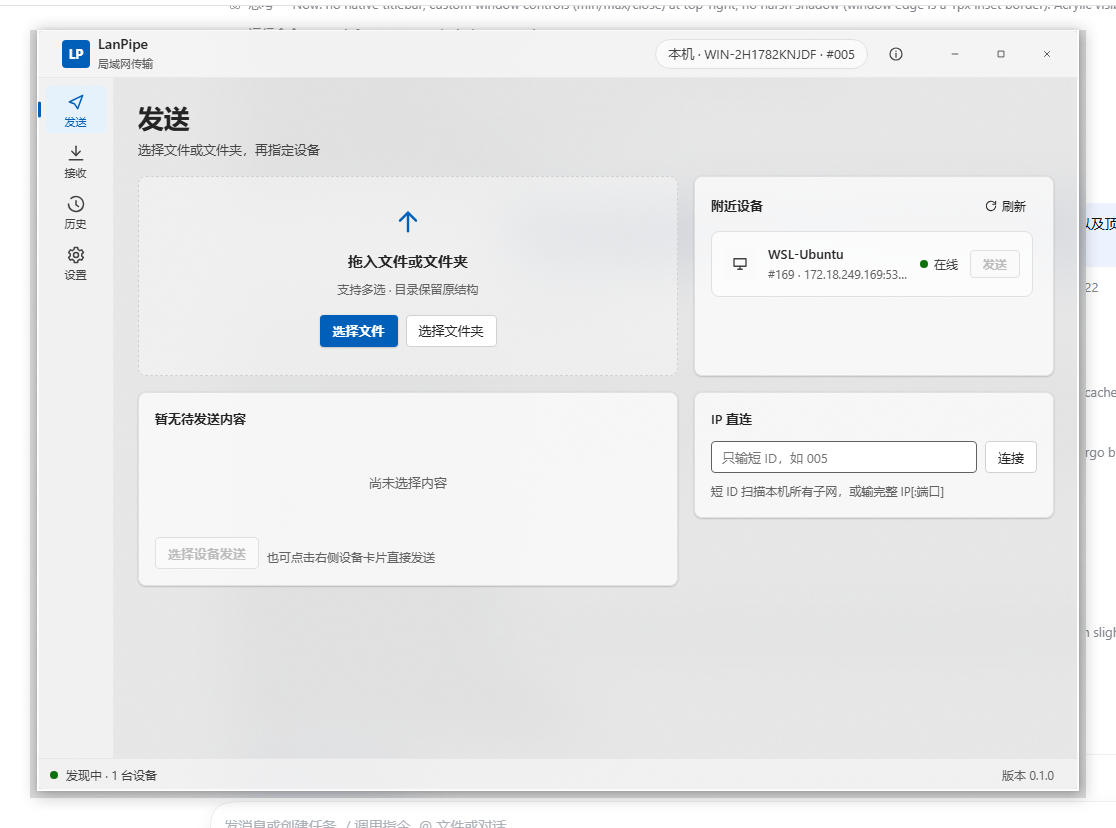
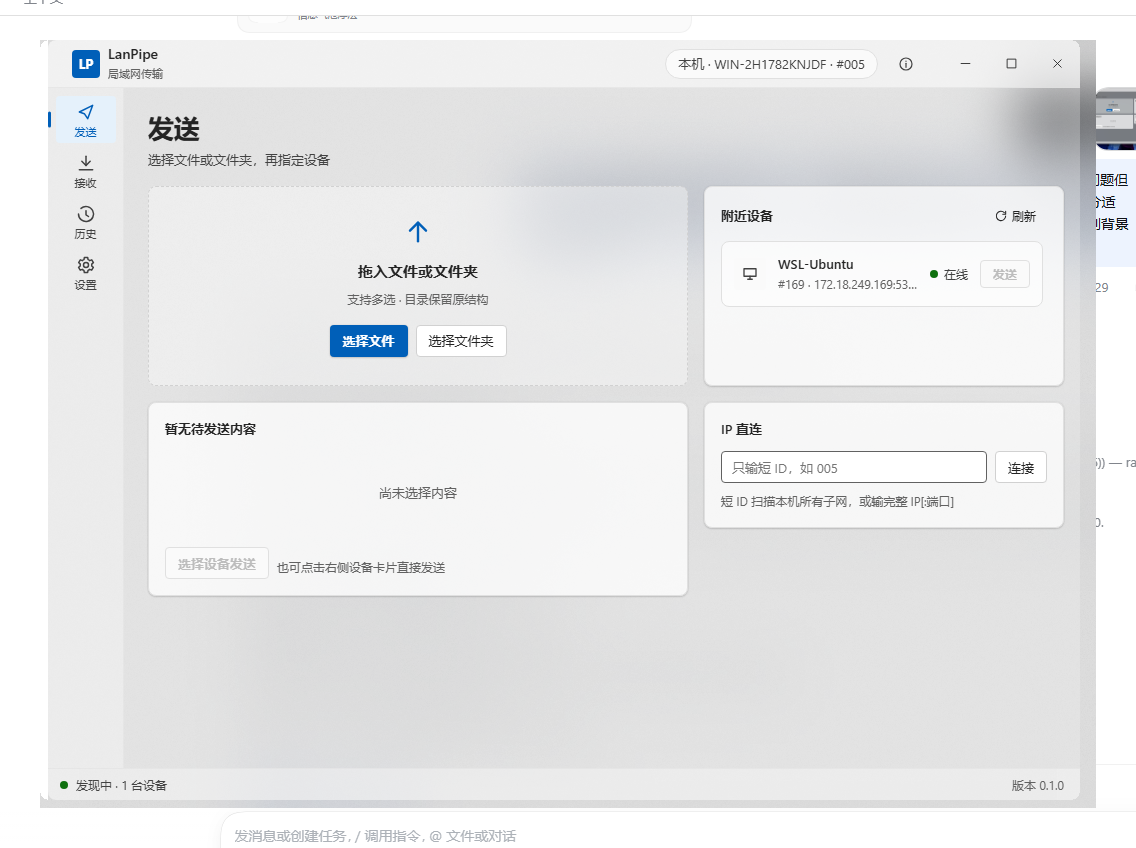
fix(win): 老系统窗口圆角兜底（SetWindowRgn）、Win11 风格标题栏按钮悬停、图标尺寸与层级修正、内容层降至 28%

diff --git a/src/styles/base.css b/src/styles/base.css
@@ -13,7 +13,7 @@ body {
   font-size: 13px;
   line-height: 20px;
   color: var(--text);
-  background: var(--bg);
+  background: transparent;
   -webkit-font-smoothing: antialiased;
   user-select: none;
 }
@@ -58,6 +58,7 @@ textarea {
 /* 应用骨架 -------------------------------------------------------------- */
 
 .app-root {
+  background: var(--bg);
   display: grid;
   grid-template-rows: 48px 1fr 32px;
   grid-template-columns: 76px 1fr;
@@ -363,6 +364,7 @@ textarea {
 }
 
 .win-btn {
+  position: relative;
   width: 46px;
   height: 100%;
   display: inline-flex;
@@ -376,12 +378,34 @@ textarea {
     color var(--dur-fast) var(--ease-standard);
 }
 
-.win-btn:hover {
-  background: color-mix(in srgb, var(--text) 6%, transparent);
+.win-btn::before {
+  content: "";
+  position: absolute;
+  inset: 6px 5px;
+  border-radius: 4px;
+  background: transparent;
+  transition: background var(--dur-fast) var(--ease-standard);
 }
 
-.win-btn:active {
-  background: color-mix(in srgb, var(--text) 10%, transparent);
+.win-btn:hover::before {
+  background: color-mix(in srgb, var(--text) 7%, transparent);
+}
+
+.win-btn:active::before {
+  background: color-mix(in srgb, var(--text) 13%, transparent);
+}
+
+.win-btn svg {
+  position: relative;
+  z-index: 1;
+  width: 15px;
+  height: 15px;
+  stroke-width: 1.4;
+}
+
+.win-btn.close:hover,
+.win-btn.close:active {
+  color: #ffffff;
 }
 
 .win-btn:focus-visible {
@@ -389,14 +413,12 @@ textarea {
   outline-offset: -2px;
 }
 
-.win-btn.close:hover {
+.win-btn.close:hover::before {
   background: #c42b1c;
-  color: #ffffff;
 }
 
-.win-btn.close:active {
+.win-btn.close:active::before {
   background: #b02a1e;
-  color: #ffffff;
 }
 
 @media (max-width: 640px) {

diff --git a/src/layout/shell.ts b/src/layout/shell.ts
@@ -88,7 +88,7 @@ export function buildShell(root: HTMLElement, onNavigate: (route: Route) => void
       "aria-label": t("window.maximize"),
       onclick: () => void win.toggleMaximize(),
     },
-    svgIcon(maxIcon(), 10),
+    svgIcon(maxIcon(), 12),
   );
   const winControls = el(
     "div",
@@ -102,7 +102,7 @@ export function buildShell(root: HTMLElement, onNavigate: (route: Route) => void
         "aria-label": t("window.minimize"),
         onclick: () => void win.minimize(),
       },
-      svgIcon(icons.minimize, 10),
+      svgIcon(icons.minimize, 12),
     ),
     maxBtn,
     el(
@@ -114,14 +114,14 @@ export function buildShell(root: HTMLElement, onNavigate: (route: Route) => void
         "aria-label": t("window.close"),
         onclick: () => void win.close(),
       },
-      svgIcon(icons.close, 10),
+      svgIcon(icons.close, 12),
     ),
   );
   const syncMaximized = async () => {
     try {
       const maximized = await win.isMaximized();
       document.documentElement.dataset.maximized = maximized ? "1" : "0";
-      maxBtn.replaceChildren(svgIcon(maxIcon(), 10));
+      maxBtn.replaceChildren(svgIcon(maxIcon(), 12));
       maxBtn.title = maximized ? t("window.restore") : t("window.maximize");
       maxBtn.setAttribute("aria-label", maxBtn.title);
     } catch {

diff --git a/src/styles/materials.css b/src/styles/materials.css
@@ -13,13 +13,14 @@
 
 :root[data-backdrop="mica"] body,
 :root[data-backdrop="acrylic"] body {
-  /* 内容层（WinUI LayerFillColorDefaultBrush 语义）：约 58% 透出材质 */
-  background: color-mix(in srgb, var(--bg) 42%, transparent);
+  background: transparent;
 }
 
 :root[data-backdrop="mica"] .app-root,
 :root[data-backdrop="acrylic"] .app-root {
-  background: transparent;
+  /* 内容层（WinUI LayerFillColorDefaultBrush 语义）：保留少量底色保证可读，
+     其余透出窗口材质；正文/标题在 28% 覆层上对比度足够（浅色主题） */
+  background: color-mix(in srgb, var(--bg) 28%, transparent);
 }
 
 :root[data-backdrop="mica"] .titlebar,

diff --git a/apps/desktop/src-tauri/src/main.rs b/apps/desktop/src-tauri/src/main.rs
@@ -283,6 +283,16 @@ fn main() {
             match window {
                 Ok(window) => {
                     tune_window_frame(&window);
+                    // 老系统（无 DWM 圆角）在尺寸变化后重算窗口圆角区域
+                    let region_window = window.clone();
+                    window.on_window_event(move |event| {
+                        if matches!(
+                            event,
+                            tauri::WindowEvent::Resized(_) | tauri::WindowEvent::ScaleFactorChanged { .. }
+                        ) {
+                            apply_round_region(&region_window);
+                        }
+                    });
                     let backdrop = apply_backdrop(&window);
                     log(&format!(
                         "setup: window built, url={:?}, visible={:?}, backdrop={backdrop}",
@@ -412,6 +422,30 @@ struct DwmMargins {
 extern "system" {
     fn DwmExtendFrameIntoClientArea(hwnd: isize, margins: *const DwmMargins) -> i32;
 
+    fn DwmGetWindowAttribute(
+        hwnd: isize,
+        attr: u32,
+        value: *mut core::ffi::c_void,
+        size: u32,
+    ) -> i32;
+}
+
+#[link(name = "gdi32")]
+extern "system" {
+    fn CreateRoundRectRgn(
+        left: i32,
+        top: i32,
+        right: i32,
+        bottom: i32,
+        width_ellipse: i32,
+        height_ellipse: i32,
+    ) -> isize;
+}
+
+#[link(name = "user32")]
+extern "system" {
+    fn SetWindowRgn(hwnd: isize, rgn: isize, redraw: i32) -> i32;
+
     fn DwmSetWindowAttribute(
         hwnd: isize,
         attr: u32,
@@ -453,6 +487,33 @@ fn tune_window_frame(window: &tauri::WebviewWindow) {
             &round as *const u32 as *const core::ffi::c_void,
             std::mem::size_of::<u32>() as u32,
         );
+    }
+    apply_round_region(window);
+}
+
+/// Win10/Server（<22000）没有 DWM 圆角，用窗口区域自己裁圆角，保证三端视觉一致。
+fn apply_round_region(window: &tauri::WebviewWindow) {
+    if windows_version::OsVersion::current().build >= 22000 {
+        return;
+    }
+    let Ok(hwnd) = window.hwnd() else { return };
+    let hwnd = hwnd.0 as isize;
+    let maximized = window.is_maximized().unwrap_or(false);
+    if maximized {
+        // 最大化时去掉区域，避免边缘漏出
+        unsafe {
+            let _ = SetWindowRgn(hwnd, 0, 1);
+        }
+        return;
+    }
+    let Ok(size) = window.inner_size() else { return };
+    let (w, h) = (size.width as i32, size.height as i32);
+    if w <= 0 || h <= 0 {
+        return;
+    }
+    unsafe {
+        let rgn = CreateRoundRectRgn(0, 0, w + 1, h + 1, 16, 16);
+        let _ = SetWindowRgn(hwnd, rgn, 1);
     }
 }
 

diff --git a/AGENT.md b/AGENT.md
@@ -536,3 +536,14 @@ node tools/ui-eval.mjs 9333 "@expr.js"   # 在页面内执行表达式
   - 下拉浮层 portal 到 `document.body`，`position: fixed` + `z-index: 1300`，打开时按按钮 rect 定位，视口不足时向上翻转，监听 resize/scroll 重新定位；
   - 信息气泡 `z-index:1100`（标题栏 `z-index:40`）、Toast `z-index:1200`。
 - 降级：`LANPIPE_BACKDROP=mica|acrylic|none` 可强制材质；`window_shadow` 命令返回当前是否系统阴影。
+
+- 老系统圆角兜底（2026-11-21 补充）：
+  - Win11（build ≥ 22000）用 `DWMWA_WINDOW_CORNER_PREFERENCE = DWMWCP_ROUND` 系统圆角；
+  - Win10/Server（< 22000）DWM 不支持圆角，用 `CreateRoundRectRgn(0,0,w+1,h+1,16,16)` + `SetWindowRgn` 给窗口本身裁 8px 圆角（最大化时 `SetWindowRgn(hwnd, 0, 1)` 去掉），并在 `WindowEvent::Resized | ScaleFactorChanged` 时重算；
+  - `.app-root { border-radius:8px; overflow:hidden }` 作为内容层裁切，`body` 保持透明，圆角外就是桌面/材质，避免四角出现底色方块。
+- 标题栏按钮（2026-11-21 补充）：
+  - 悬停高亮用伪元素 `::before { inset:6px 5px; border-radius:4px }`（Win11 风格圆角内缩高亮），关闭按钮 `#C42B1C`；
+  - 图标统一 15px、`stroke-width:1.4`，且 `position:relative; z-index:1` 保证盖在悬停底色之上（否则绝对定位的 ::before 会盖住图标）。
+- 材质分层（2026-11-21 最终）：
+  - `body` 完全透明；`.app-root` 铺 28% 内容层；标题栏 42%、导航/状态栏 22%、卡片 72%、拖入区 40%、列表行 58%；
+  - 浮层 92%→不透明（`var(--surface)`）保证可读；无 `data-backdrop` 时全部回退纯色。

diff --git a/docs/UI-DESIGN.md b/docs/UI-DESIGN.md
@@ -370,6 +370,6 @@ export function availableLocales(): { code: Locale; name: string }[];
 ### 2.3 材质（Mica / Acrylic）
 
 - 窗口底：Mica（Win11）/ Acrylic（Win10 1809+）/ 纯色；由 `backdrop_info` 决定是否启用半透明层级。
-- 卡片 84% 表面色 + blur24；标题栏 45% + blur30；导航/状态栏 30% + blur30；浮层 82% + blur40。
+- 卡片 72% 表面色 + blur24；标题栏 45% + blur30；导航/状态栏 30% + blur30；浮层 82% + blur40。
 - 浮层用亚克力，大背景不用；不在亚克力上放 accent 文字；避免相邻亚克力接缝。
 - 无材质环境一律不透明，保证可读性。
